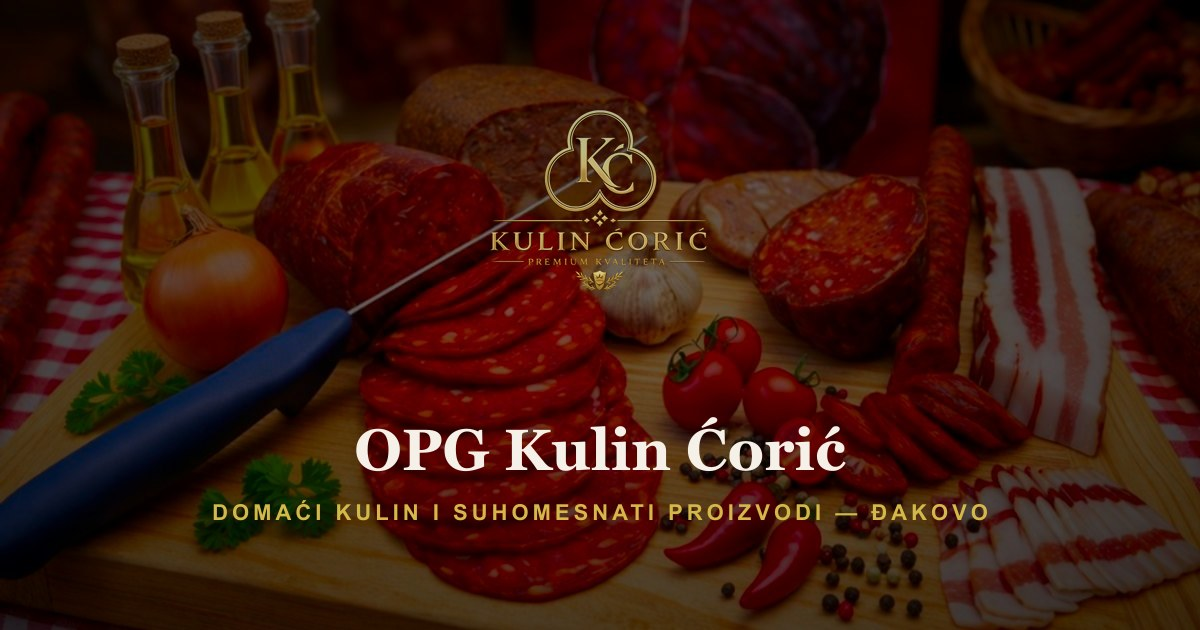
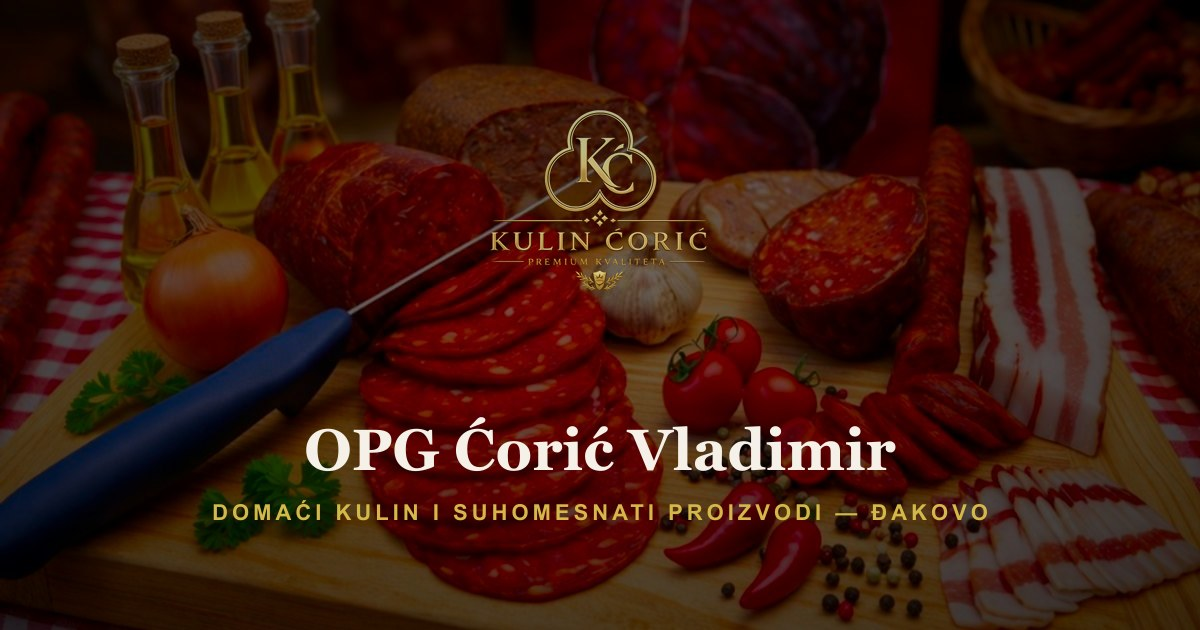
fix: ispravi pravni naziv OPG-a - OPG Cotic Vladimir (ne OPG Kulin Cotic)
"Kulin Coric" je samo naziv brenda, "OPG Kulin Coric" nikad nije bio
stvaran pravni naziv. Ispravljeno svugdje gdje se OPG imenovao:

- index.html: title, meta description/keywords/author, OG i Twitter
  tagovi, JSON-LD name (dodan i alternateName: "Kulin Coric" za brend)
- 4 pravne stranice: naslovi, meta opisi, footer copyright
- Footer.jsx copyright linija
- About.jsx: "O nama" naslov sad "Kulin Coric" (brend, bez OPG prefiksa,
  usklađeno s uvodnom recenicom "Pod imenom Kulin Coric..."), a recenica
  o osnivanju sad ispravno kaze "OPG Coric Vladimir osnovan je..."
- og-image.jpg regeneriran s ispravnim tekstom

Changed region(s): [[0.2467, 0.6635, 0.7708, 0.754]]

diff --git a/index.html b/index.html
@@ -9,10 +9,10 @@
     <meta name="viewport" content="width=device-width, initial-scale=1.0" />
 
     <!-- Primary SEO -->
-    <title>OPG Kulin Ćorić | Slavonski kulin (kulen) — Đakovo</title>
-    <meta name="description" content="OPG Kulin Ćorić iz Đakova nudi autentični slavonski kulin (kulen), kobasice, slaninu i pečenicu — ručna izrada, dimljenje bukvom, zrenje 5–6 mjeseci." />
-    <meta name="keywords" content="OPG Kulin Ćorić, slavonski kulin Đakovo, slavonski kulen, domaći kulin, kulen Đakovo, suhomesnati proizvodi Slavonija, kobasice Đakovo, kulinijada, Vladimir Ćorić, buđola, pečenica, slanina Slavonija" />
-    <meta name="author" content="OPG Kulin Ćorić" />
+    <title>OPG Ćorić Vladimir | Slavonski kulin (kulen) — Đakovo</title>
+    <meta name="description" content="OPG Ćorić Vladimir iz Đakova nudi autentični slavonski kulin (kulen), kobasice, slaninu i pečenicu — ručna izrada, dimljenje bukvom, zrenje 5–6 mjeseci." />
+    <meta name="keywords" content="OPG Ćorić Vladimir, Kulin Ćorić, slavonski kulin Đakovo, slavonski kulen, domaći kulin, kulen Đakovo, suhomesnati proizvodi Slavonija, kobasice Đakovo, kulinijada, Vladimir Ćorić, buđola, pečenica, slanina Slavonija" />
+    <meta name="author" content="OPG Ćorić Vladimir" />
     <meta name="robots" content="index, follow" />
     <link rel="canonical" href="https://www.kulin-coric.hr" />
 
@@ -20,17 +20,17 @@
     <meta property="og:type" content="website" />
     <meta property="og:locale" content="hr_HR" />
     <meta property="og:url" content="https://www.kulin-coric.hr" />
-    <meta property="og:site_name" content="OPG Kulin Ćorić" />
-    <meta property="og:title" content="OPG Kulin Ćorić | Slavonski kulin (kulen) — Đakovo" />
+    <meta property="og:site_name" content="OPG Ćorić Vladimir" />
+    <meta property="og:title" content="OPG Ćorić Vladimir | Slavonski kulin (kulen) — Đakovo" />
     <meta property="og:description" content="Autentični slavonski kulin (kulen), kobasice, slanina i suhomesnate delicije iz Đakova. Ručna izrada prema obiteljskim recepturama, dimljenje bukvom, zrenje 5–6 mjeseci." />
     <meta property="og:image" content="https://www.kulin-coric.hr/og-image.jpg" />
     <meta property="og:image:width" content="1200" />
     <meta property="og:image:height" content="630" />
-    <meta property="og:image:alt" content="OPG Kulin Ćorić — slavonski kulin i suhomesnati proizvodi iz Đakova" />
+    <meta property="og:image:alt" content="OPG Ćorić Vladimir — slavonski kulin i suhomesnati proizvodi iz Đakova" />
 
     <!-- Twitter Card -->
     <meta name="twitter:card" content="summary_large_image" />
-    <meta name="twitter:title" content="OPG Kulin Ćorić | Slavonski kulin (kulen) — Đakovo" />
+    <meta name="twitter:title" content="OPG Ćorić Vladimir | Slavonski kulin (kulen) — Đakovo" />
     <meta name="twitter:description" content="Autentični slavonski kulin (kulen) i suhomesnate delicije iz Đakova. Ručna izrada, dimljenje bukvom, zrenje 5–6 mjeseci." />
     <meta name="twitter:image" content="https://www.kulin-coric.hr/og-image.jpg" />
 
@@ -39,7 +39,8 @@
     {
       "@context": "https://schema.org",
       "@type": "LocalBusiness",
-      "name": "OPG Kulin Ćorić",
+      "name": "OPG Ćorić Vladimir",
+      "alternateName": "Kulin Ćorić",
       "description": "Obiteljsko poljoprivredno gospodarstvo iz Đakova specijalizirano za proizvodnju autentičnog slavonskog kulina (kulen), kobasica i suhomesnatih delicija prema tradicijskim recepturama.",
       "url": "https://www.kulin-coric.hr",
       "telephone": "+38598223844",

diff --git a/public/politika-privatnosti.html b/public/politika-privatnosti.html
@@ -4,8 +4,8 @@
     <meta charset="UTF-8" />
     <link rel="icon" type="image/png" sizes="32x32" href="/favicon-32.png" />
     <meta name="viewport" content="width=device-width, initial-scale=1.0" />
-    <title>Politika privatnosti | OPG Kulin Ćorić</title>
-    <meta name="description" content="Politika privatnosti OPG Kulin Ćorić — koje podatke prikupljamo putem kontakt obrasca, u koju svrhu i koja su vaša prava prema GDPR-u." />
+    <title>Politika privatnosti | OPG Ćorić Vladimir</title>
+    <meta name="description" content="Politika privatnosti OPG Ćorić Vladimir — koje podatke prikupljamo putem kontakt obrasca, u koju svrhu i koja su vaša prava prema GDPR-u." />
     <meta name="robots" content="index, follow" />
     <link rel="canonical" href="https://www.kulin-coric.hr/politika-privatnosti.html" />
     <link rel="stylesheet" href="/legal.css" />
@@ -68,7 +68,7 @@
     </main>
 
     <footer class="legalFooter">
-      &copy; <span id="year"></span> OPG Kulin Ćorić — Sva prava pridržana
+      &copy; <span id="year"></span> OPG Ćorić Vladimir — Sva prava pridržana
     </footer>
     <script>document.getElementById('year').textContent = new Date().getFullYear()</script>
   </body>

diff --git a/public/politika-kolacica.html b/public/politika-kolacica.html
@@ -4,8 +4,8 @@
     <meta charset="UTF-8" />
     <link rel="icon" type="image/png" sizes="32x32" href="/favicon-32.png" />
     <meta name="viewport" content="width=device-width, initial-scale=1.0" />
-    <title>Politika kolačića | OPG Kulin Ćorić</title>
-    <meta name="description" content="Politika kolačića OPG Kulin Ćorić — koje kolačiće koristimo na web stranici i zašto." />
+    <title>Politika kolačića | OPG Ćorić Vladimir</title>
+    <meta name="description" content="Politika kolačića OPG Ćorić Vladimir — koje kolačiće koristimo na web stranici i zašto." />
     <meta name="robots" content="index, follow" />
     <link rel="canonical" href="https://www.kulin-coric.hr/politika-kolacica.html" />
     <link rel="stylesheet" href="/legal.css" />
@@ -41,7 +41,7 @@
     </main>
 
     <footer class="legalFooter">
-      &copy; <span id="year"></span> OPG Kulin Ćorić — Sva prava pridržana
+      &copy; <span id="year"></span> OPG Ćorić Vladimir — Sva prava pridržana
     </footer>
     <script>document.getElementById('year').textContent = new Date().getFullYear()</script>
   </body>

diff --git a/public/impressum.html b/public/impressum.html
@@ -4,8 +4,8 @@
     <meta charset="UTF-8" />
     <link rel="icon" type="image/png" sizes="32x32" href="/favicon-32.png" />
     <meta name="viewport" content="width=device-width, initial-scale=1.0" />
-    <title>Impressum | OPG Kulin Ćorić</title>
-    <meta name="description" content="Impressum OPG Kulin Ćorić — podaci o nositelju gospodarstva, adresi, OIB-u i kontaktu." />
+    <title>Impressum | OPG Ćorić Vladimir</title>
+    <meta name="description" content="Impressum OPG Ćorić Vladimir — podaci o nositelju gospodarstva, adresi, OIB-u i kontaktu." />
     <meta name="robots" content="index, follow" />
     <link rel="canonical" href="https://www.kulin-coric.hr/impressum.html" />
     <link rel="stylesheet" href="/legal.css" />
@@ -58,7 +58,7 @@
     </main>
 
     <footer class="legalFooter">
-      &copy; <span id="year"></span> OPG Kulin Ćorić — Sva prava pridržana
+      &copy; <span id="year"></span> OPG Ćorić Vladimir — Sva prava pridržana
     </footer>
     <script>document.getElementById('year').textContent = new Date().getFullYear()</script>
   </body>

diff --git a/src/components/sections/About.jsx b/src/components/sections/About.jsx
@@ -9,7 +9,7 @@ export default function About() {
           <div className={styles.content}>
             <div className={styles.header}>
               <span className={styles.label}>O nama</span>
-              <h2>OPG Kulin <em>Ćorić</em></h2>
+              <h2>Kulin <em>Ćorić</em></h2>
             </div>
             <div className={styles.body}>
               <p>
@@ -35,7 +35,7 @@ export default function About() {
                 dimljenja i zrenja, pa sve do pakiranja gotovog proizvoda.
               </p>
               <p>
-                OPG Kulin Ćorić osnovan je s ciljem očuvanja, zaštite i promocije autohtonih slavonskih
+                OPG Ćorić Vladimir osnovan je s ciljem očuvanja, zaštite i promocije autohtonih slavonskih
                 suhomesnatih proizvoda. Kao ponosni član Udruge kulinara „Đakovački kulin",
                 redovito sudjelujemo na ocjenjivanjima i natjecanjima diljem regije, gdje su naši
                 proizvodi prepoznati i nagrađivani na regionalnim i nacionalnim razinama.

diff --git a/public/uvjeti-koristenja.html b/public/uvjeti-koristenja.html
@@ -4,8 +4,8 @@
     <meta charset="UTF-8" />
     <link rel="icon" type="image/png" sizes="32x32" href="/favicon-32.png" />
     <meta name="viewport" content="width=device-width, initial-scale=1.0" />
-    <title>Uvjeti korištenja | OPG Kulin Ćorić</title>
-    <meta name="description" content="Uvjeti korištenja web stranice OPG Kulin Ćorić." />
+    <title>Uvjeti korištenja | OPG Ćorić Vladimir</title>
+    <meta name="description" content="Uvjeti korištenja web stranice OPG Ćorić Vladimir." />
     <meta name="robots" content="index, follow" />
     <link rel="canonical" href="https://www.kulin-coric.hr/uvjeti-koristenja.html" />
     <link rel="stylesheet" href="/legal.css" />
@@ -47,7 +47,7 @@
     </main>
 
     <footer class="legalFooter">
-      &copy; <span id="year"></span> OPG Kulin Ćorić — Sva prava pridržana
+      &copy; <span id="year"></span> OPG Ćorić Vladimir — Sva prava pridržana
     </footer>
     <script>document.getElementById('year').textContent = new Date().getFullYear()</script>
   </body>

diff --git a/scripts/generate-og-image.js b/scripts/generate-og-image.js
@@ -25,7 +25,7 @@ const overlaySvg = Buffer.from(`
   </defs>
   <rect width="${WIDTH}" height="${HEIGHT}" fill="url(#vign)"/>
   <text x="50%" y="470" text-anchor="middle" font-family="Georgia, 'Times New Roman', serif" font-size="58" font-weight="600" fill="#F5F1E8">
-    OPG Kulin Ćorić
+    OPG Ćorić Vladimir
   </text>
   <text x="50%" y="520" text-anchor="middle" font-family="Arial, sans-serif" font-size="22" font-weight="600" letter-spacing="4" fill="#D4B84A">
     DOMAĆI KULIN I SUHOMESNATI PROIZVODI — ĐAKOVO

diff --git a/src/components/layout/Footer.jsx b/src/components/layout/Footer.jsx
@@ -75,7 +75,7 @@ export default function Footer() {
 
         <div className={styles.bottom}>
           <p className={styles.copy}>
-            &copy; {new Date().getFullYear()} OPG Kulin Ćorić &mdash; Sva prava pridržana
+            &copy; {new Date().getFullYear()} OPG Ćorić Vladimir &mdash; Sva prava pridržana
           </p>
         </div>
       </Container>
